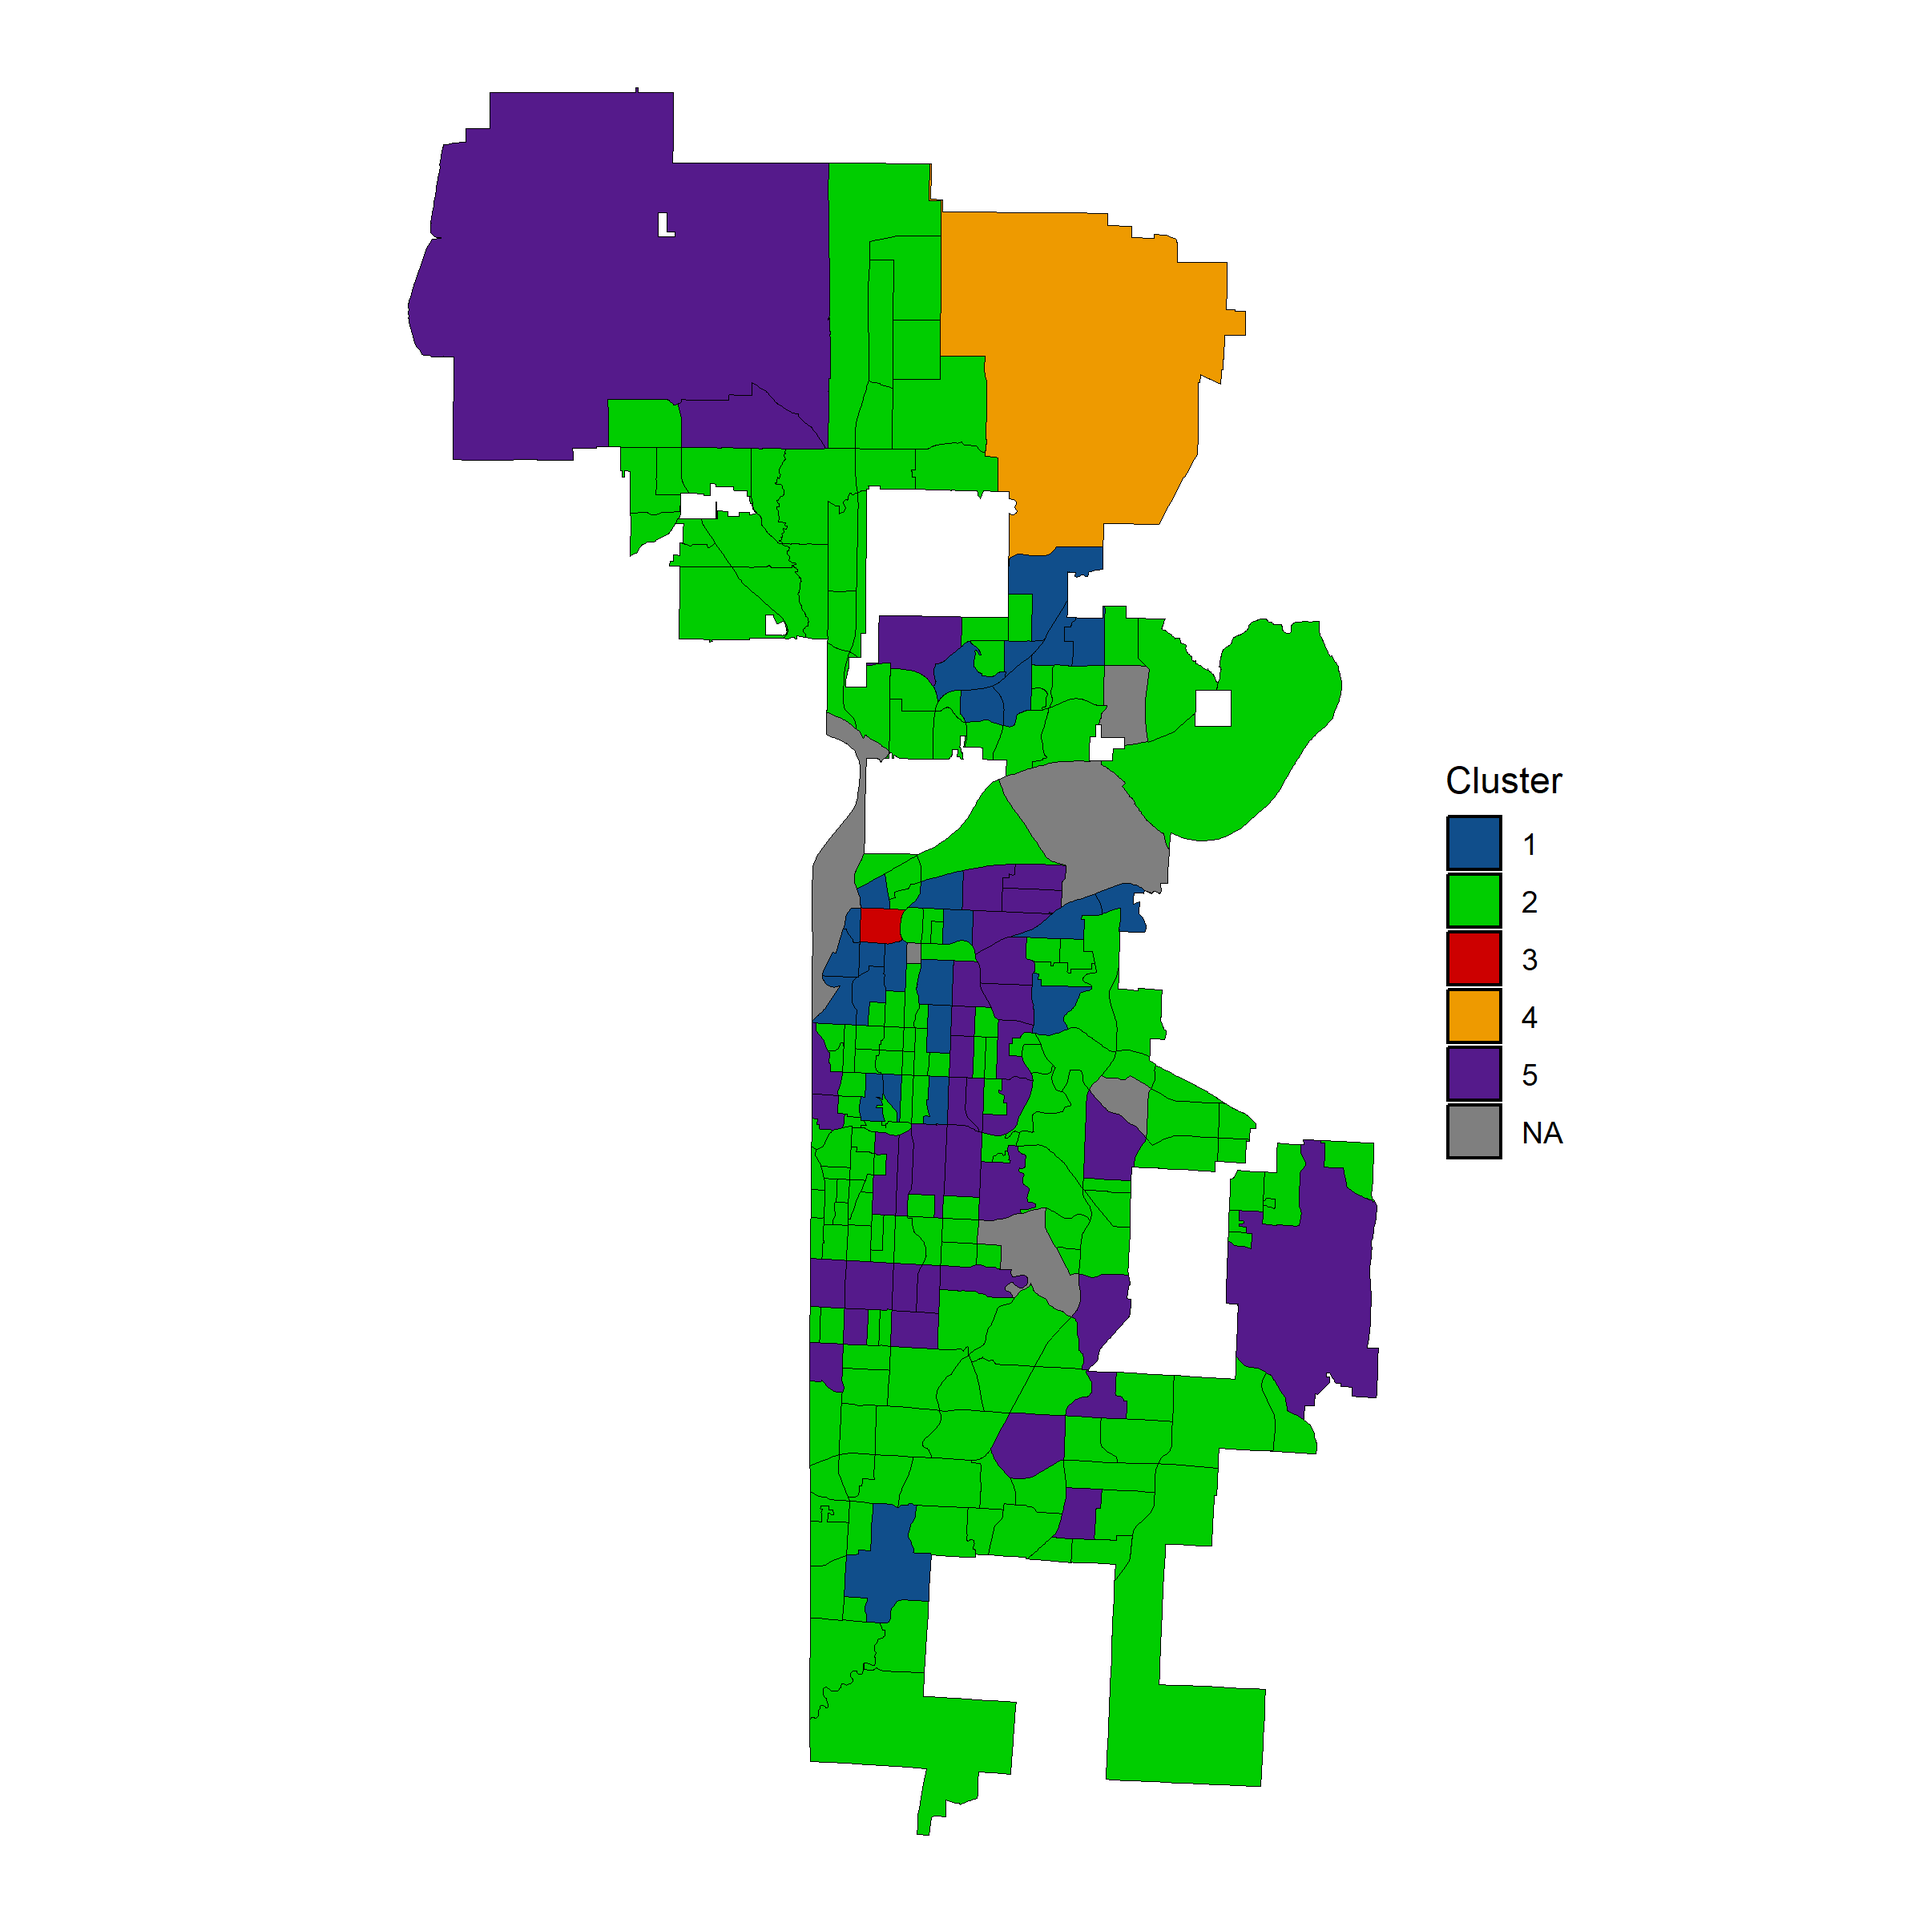
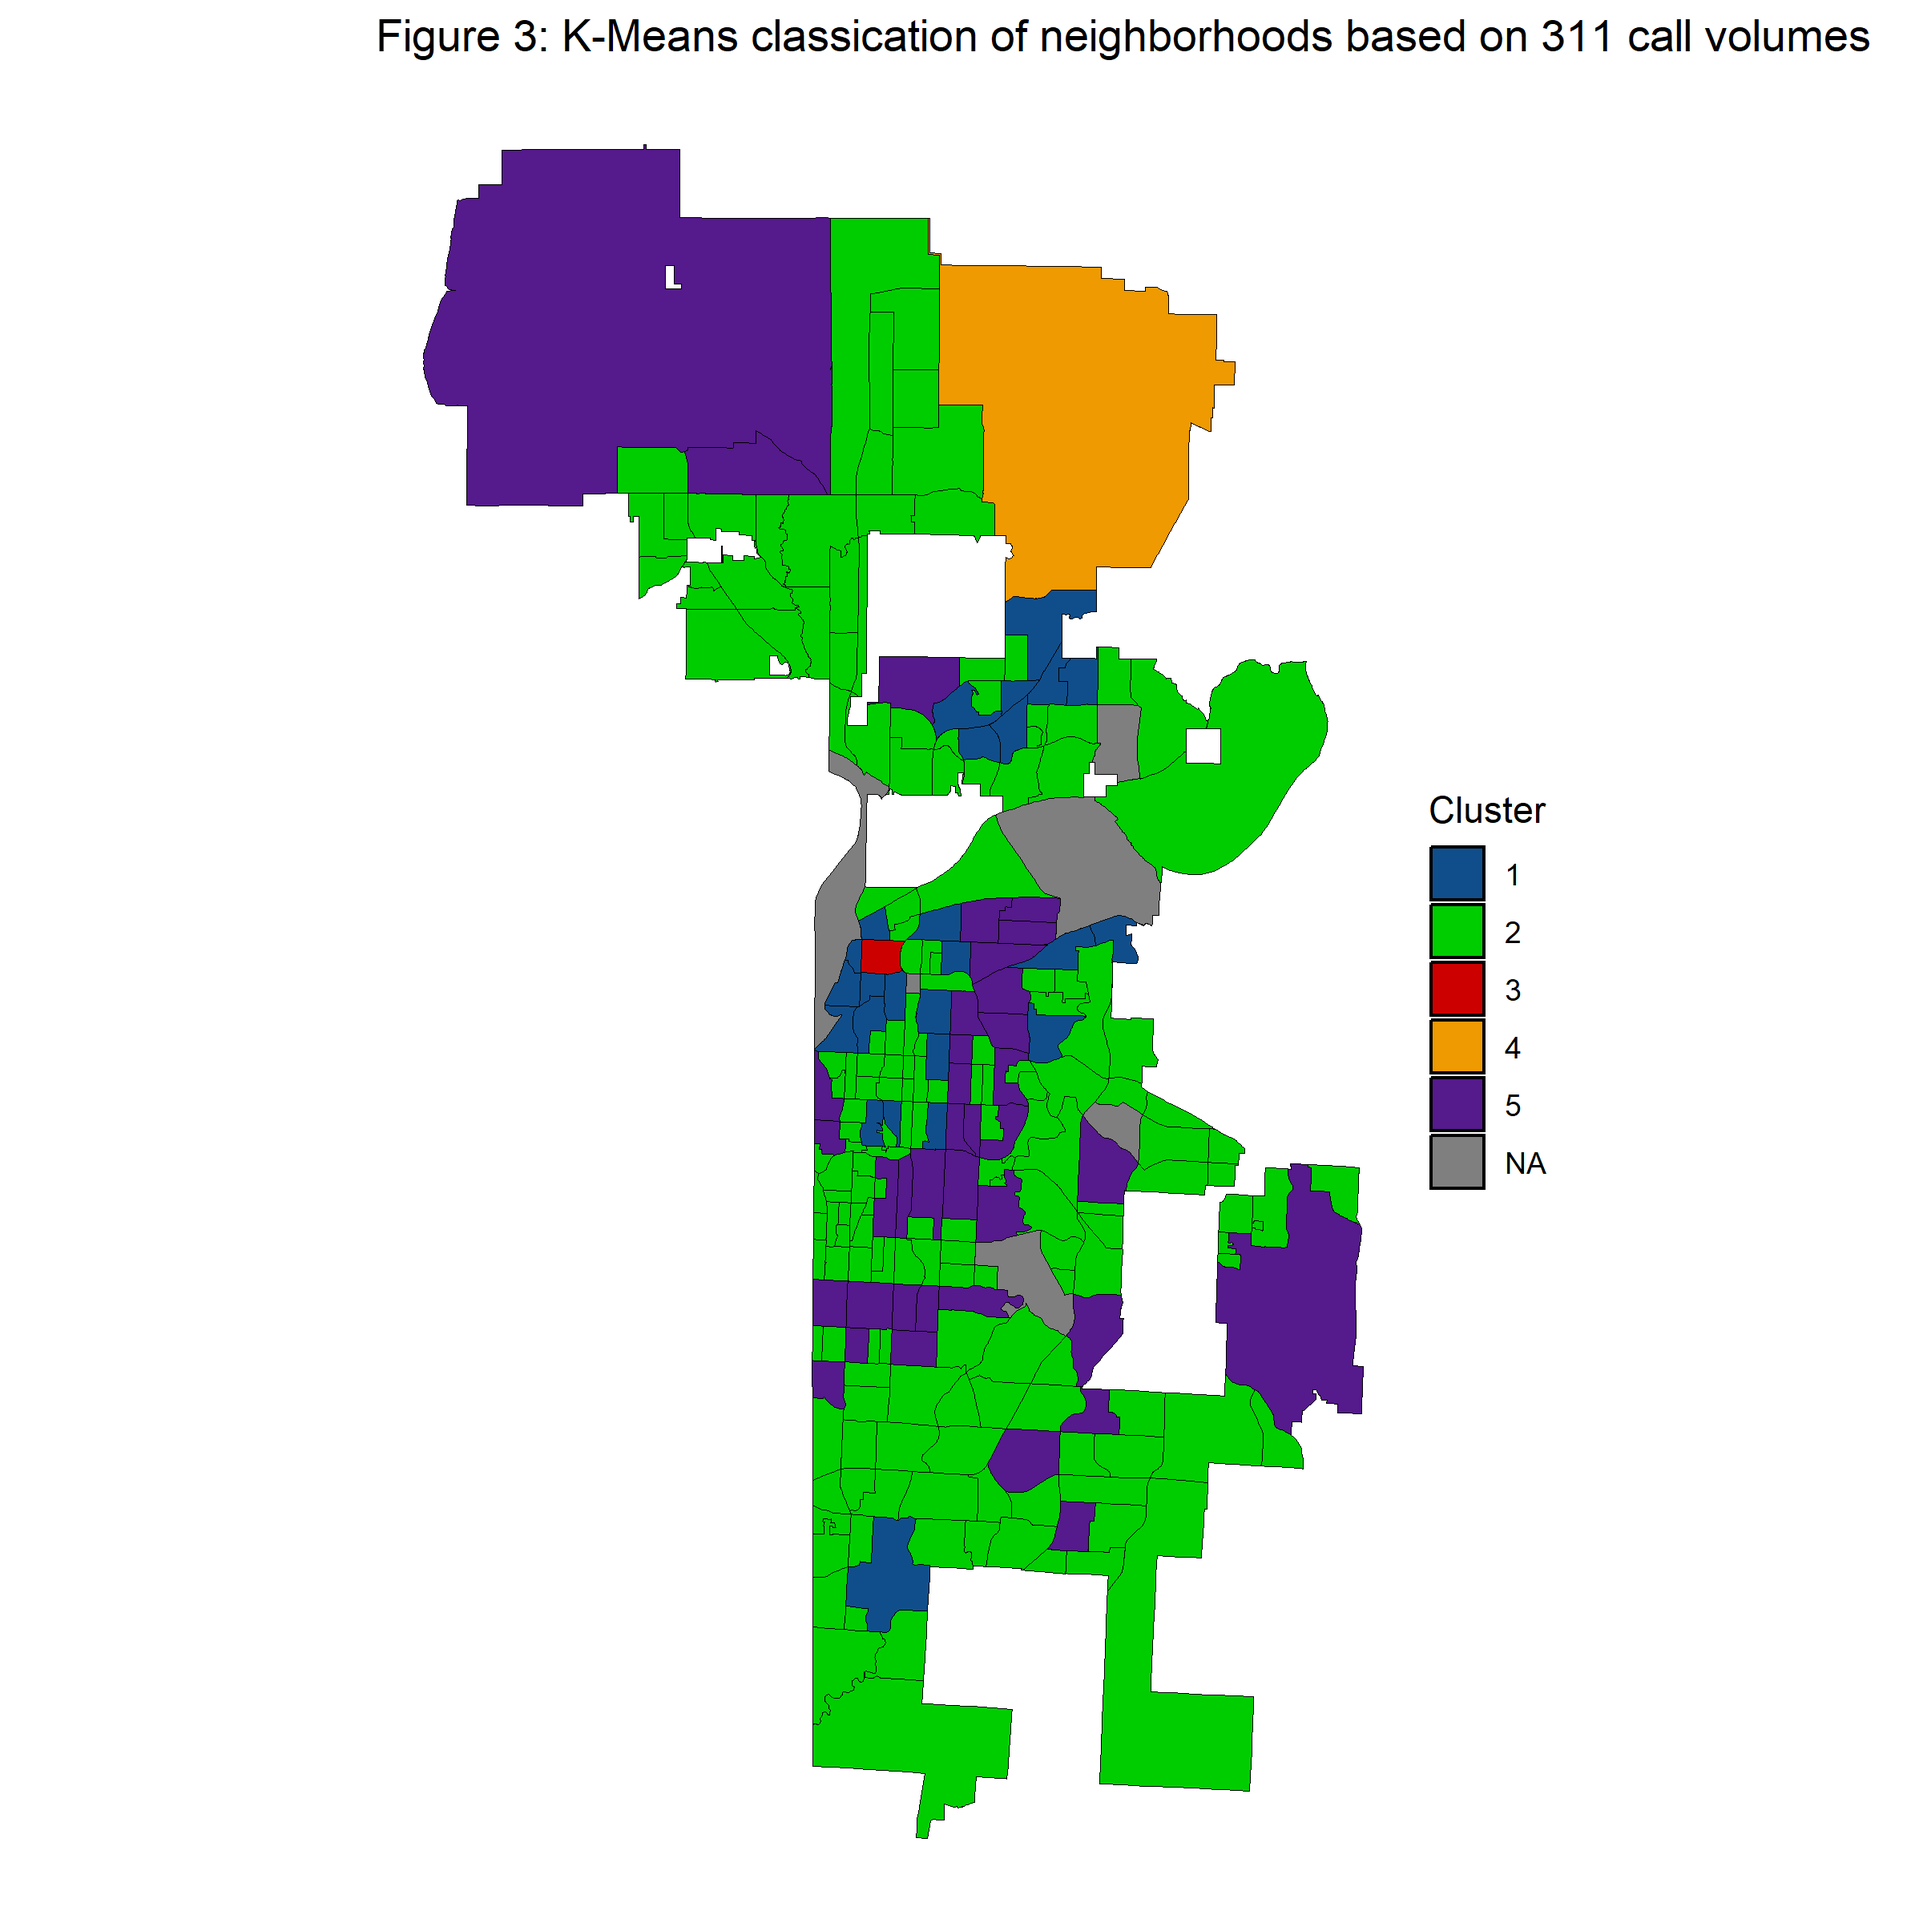
Add text

Changed region(s): [[0.1875, 0.0, 0.9688, 0.9375], [0.5, 0.875, 0.5312, 0.9375]]

diff --git a/README.md b/README.md
@@ -11,26 +11,85 @@ October 2023
 <!-- **Abstracts** -->
 <!-- TBD  -->
 
-### Intro
+### Introduction
 
-From Evicted - Mathew Desmond, we learned that in Milwaukee at the time
-multiple nuisance activities 911 calls on a property can lead to police
-service charges to property owners. This might lead to landlord eviction
-renters. Nuisance activities are especially concentrated in low income,
-deep poverty neighborhoods. These calls are reported under “Trouble with
-Subjects”, noise complaints, and domestic violence.
+Urban environments are characterized by a complex tapestry of diverse
+neighborhoods, each exhibiting unique socio-economic, cultural, and
+infrastructural features. Effective urban planning and decision-making
+demand an intricate understanding of these localized contexts.
+Traditional demographic estimates, though invaluable, often suffer from
+temporal lags that limit their real-time applicability. In response to
+this challenge, emerging research suggests that 311 non-emergency
+service calls offer an innovative avenue for constructing a dynamic and
+cost-effective indicators of urban neighborhoods. These service
+requests, encompassing a wide array of concerns raised by residents,
+possess the potential to serve as invaluable indicators of neighborhood
+distress and characteristics. By scrutinizing this wealth of data, urban
+stakeholders can gain unprecedented insights into local conditions,
+aiding in the formulation of targeted interventions and policies.
 
-Connecting this to the above literature of using 311 calls as indicators
-of neighborhood distress and characteristics of urban neighborhoods. In
-another way, 311 calls can be used as a real time indicator of
-neighborhood characteristics in addition to much lagged
-socio-demographic estimates.
+The utilization of 311 Service Requests as a tool for characterizing
+urban neighborhoods represents a burgeoning area of inquiry in urban
+studies and planning. Notably, seminal work by [Wang et al
+(2017)](https://www.ncbi.nlm.nih.gov/pmc/articles/PMC5645100/)
+highlights the capacity of 311 data to unveil the intricate fabric of
+urban systems. Through detailed analysis of New York City, Boston, and
+Chicago, the study demonstrates how these requests, categorized by type
+and location, furnish a robust foundation for delineating distinct
+socio-economic profiles across neighborhoods. This innovative
+classification, hinged on 311 data, presents an invaluable resource for
+modeling various socio-economic features, offering a real-time
+counterpart to conventional, lagged estimates.
+
+Furthermore, the implications of this research extend beyond theoretical
+classifications. The findings underscore the practical utility of
+311-based characterizations in forecasting future trends, particularly
+in the realm of local real estate prices. This revelation suggests that
+311 Service Requests harbor the potential not only to monitor but also
+to predict the socio-economic performance of urban neighborhoods. Such
+predictive capabilities empower urban stakeholders with the means to
+quantitatively evaluate the impacts of their interventions, fostering a
+more dynamic and responsive approach to urban planning.
+
+In light of these compelling insights, this paper builds upon this
+foundational work, delving deeper into the potential of 311 data as a
+dynamic lens through which to understand and address the challenges of
+urban environments. Through rigorous analysis and modeling, we seek to
+augment the understanding of how 311 Service Requests in Kansas City
+Missouri (KCMO) can serve as an invaluable real-time indicator of
+neighborhood characteristics, complementing conventional demographic
+estimates and enabling more informed, timely, and effective urban
+interventions.
 
 ### Data
 
 #### About 311 data
 
+The data utilized in this study originates from the Kansas City Open
+Data website, spanning from March 1st, 2019 to February 1st, 2020. This
+temporal scope allows for an examination of non-emergency service
+requests across four counties within the Kansas City, Missouri area,
+namely Jackson, Clay, Platte, and Cass. This pre-pandemic timeframe
+offers a valuable baseline for understanding the dynamics of urban
+service requests prior to the influence of extraordinary events such as
+the COVID-19 pandemic. The 311 system serves as a conduit through which
+local government entities provide non-emergency assistance to residents,
+visitors, and businesses. It addresses reported disruptions in services,
+unsafe situations, and disturbances affecting quality of life. Although
+requests are received through various channels such as text messages,
+web forms, and dedicated mobile applications, the majority are received
+via phone calls. These 311 service requests and complaints encompass a
+wide spectrum of concerns, including, but not limited to, noise
+disturbances, building heating outages, and sightings of rodents.
+Consequently, this data proves to be an invaluable resource for
+comprehending the provision of crucial municipal services and gauging
+neighborhood conditions.
+
 ![](README_files/figure-gfm/unnamed-chunk-1-1.png)<!-- -->
+
+The number of total requests during the time frame for the 311 data in
+KCMO is at 117 thousands, about a fifth of the city’s population during
+the same year. Kansas City’s 311 data are categorized in 15 types.
 
 | CATEGORY                            | Neighborhood_Count | Min | Mean | Median |  SD |   Max |  Total |
 |:------------------------------------|-------------------:|----:|-----:|-------:|----:|------:|-------:|
@@ -50,6 +109,9 @@ socio-demographic estimates.
 | Streets / Roadways / Alleys         |                240 |   5 |  112 |     80 | 122 | 1,036 | 26,798 |
 | Trash / Recycling                   |                239 |   1 |  144 |     93 | 237 | 3,355 | 34,344 |
 
+Table 1: Summary statitics of 311 Calls by 311 Non-Emergency Service
+Categories
+
 #### About demographic and socioeconomic data
 
 | Socioeconomic_Demographic             | Neighborhood_Count |       Min |       Mean |     Median |         SD |          Max |
@@ -64,6 +126,9 @@ socio-demographic estimates.
 | Share.Renter.Occupied                 |                240 |      0.00 |      45.53 |      47.04 |      24.07 |       100.00 |
 | Share.Vacant                          |                240 |      0.00 |      15.68 |      11.69 |      13.57 |        64.72 |
 | Share.White.alone                     |                240 |      0.84 |      41.38 |      42.56 |      24.00 |        99.31 |
+
+Table 2: Summary statistics of socio-demographic characteristics across
+neighborhoods in Kansas City, MO
 
 ### Classification based on 311 service categories
 
@@ -333,6 +398,8 @@ socio-demographic estimates.
 | Davidson                                   |       5 |                 37 |
 | Coves North                                |       5 |                 37 |
 | KCI & 2nd Creek                            |       5 |                 37 |
+
+Table 3: K-Means classication of neighborhoods based on 311 call volumes
 
 ![](README_files/figure-gfm/unnamed-chunk-5-1.png)<!-- -->
 
